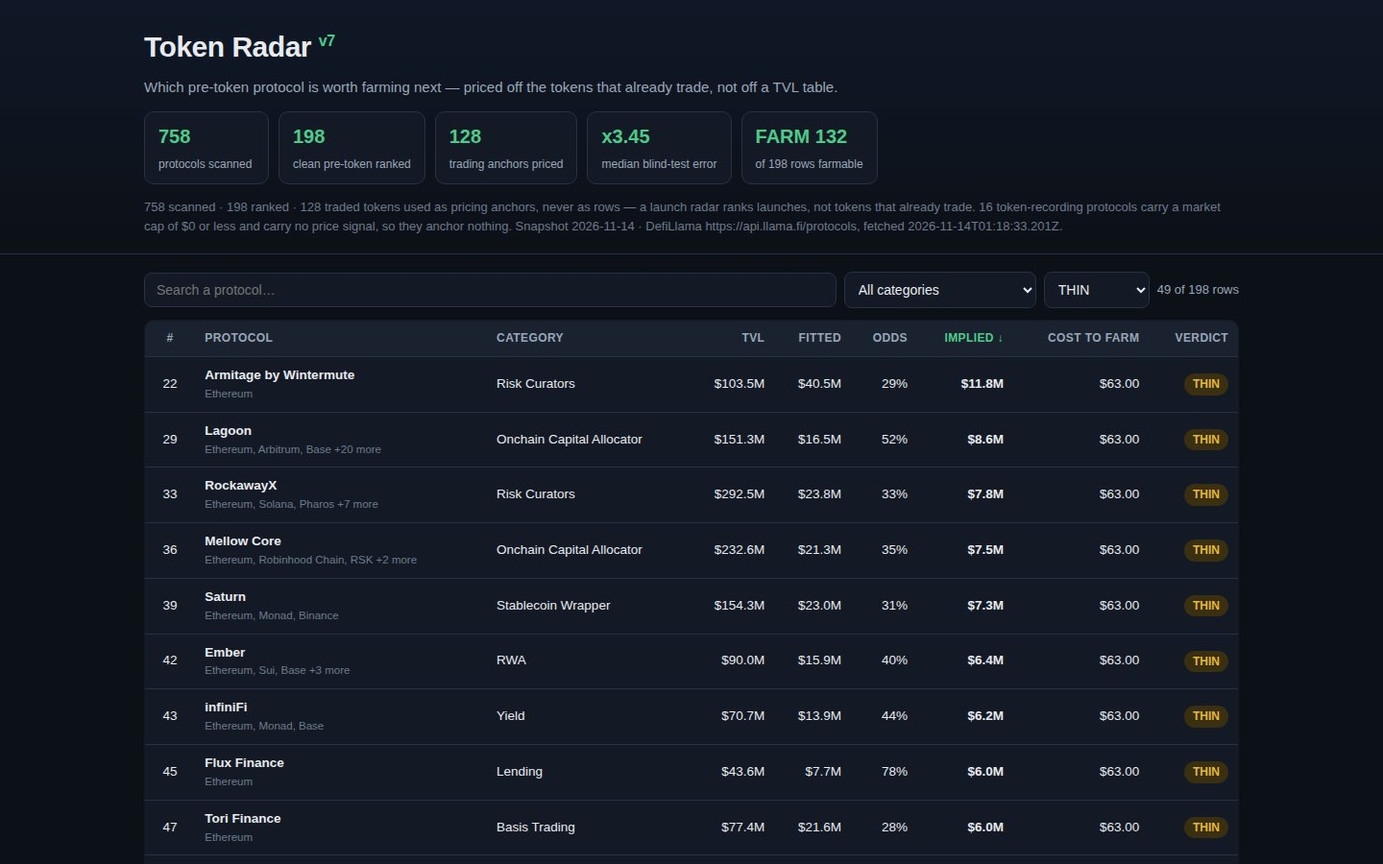
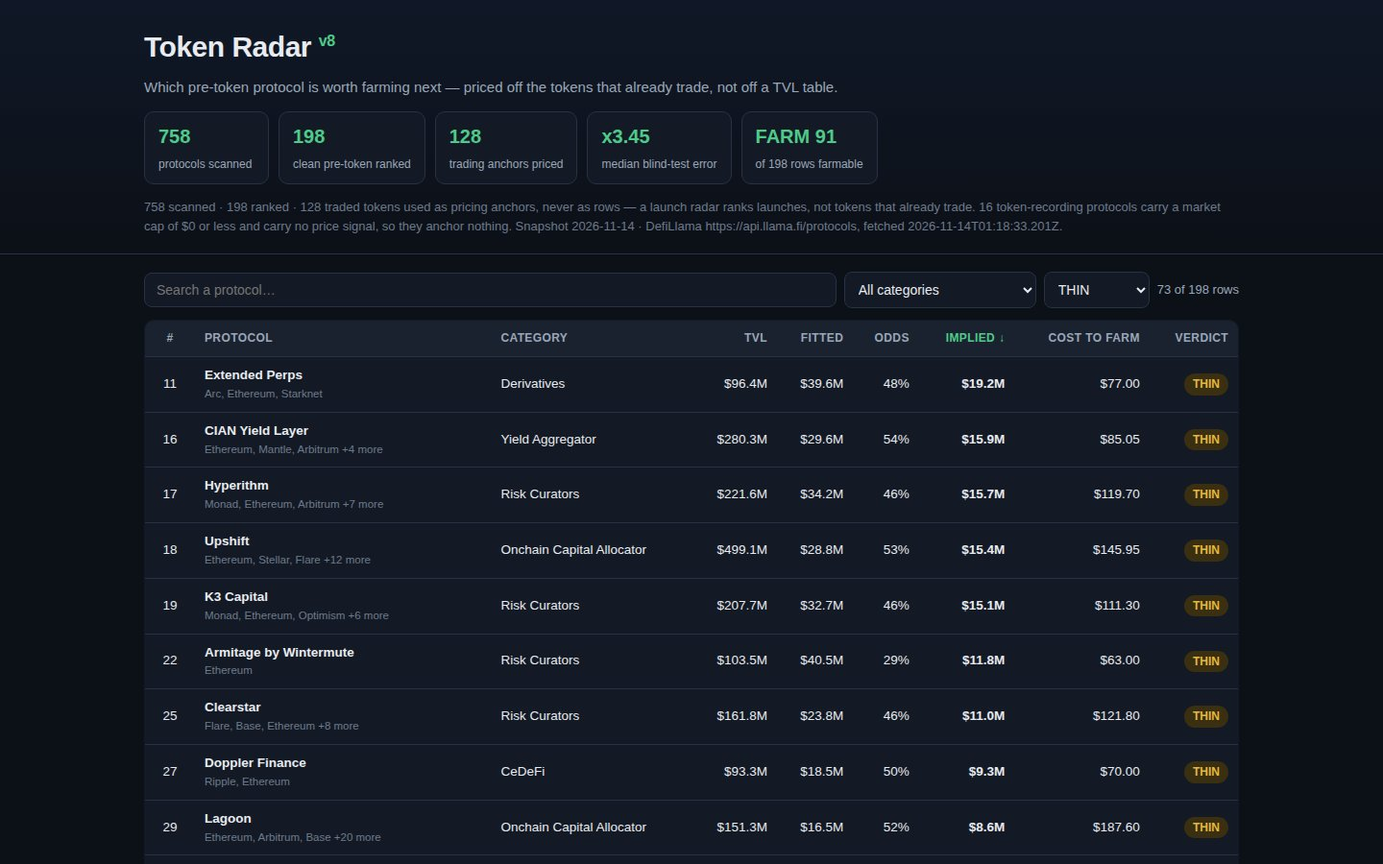
token-radar v8: presentation-only round
- costToFarm sums gas across ALL of a protocol's chains (59 values,
  $0.70-$336.70); verdicts shift FARM 91 / THIN 73 / SKIP 34 at the
  same thresholds (no re-tune needed)
- 4th screenshot: methodology calibration + live self-test; shot 2
  re-shot scrolled to the farm plan (was cut off mid-comps-table)
- live on-page self-test, 8 checks computed at render, 8/8 PASS
- judge note mapping each rubric criterion to its evidence (§10)
- dated 4-week farm plans (14 Nov - 12 Dec 2026) in detail headers
- methodology reframe leads with flat x5.07 -> blend x3.45 (32%
  better); static top-10 arithmetic table, verified 10/10 vs data.js
- model, board, verdicts and methodology numbers unchanged from v7

diff --git a/dashboard/app.js b/dashboard/app.js
@@ -1,7 +1,10 @@
-// Token Radar v7 — the page. Reads window.RADAR (written by main.ts from
+// Token Radar v8 — the page. Reads window.RADAR (written by main.ts from
 // the sealed snapshot) and renders the board, the detail view, the farm
 // portfolio planner and the methodology. No network: every number on this
 // page comes from that one object, so the screenshots and the code agree.
+// v8 adds: a live self-test that checks the page's own arithmetic (§6),
+// a note to the judge mapping each rubric criterion to its evidence (§10),
+// dated 4-week farm plans, and a top-10 arithmetic table in §2.
 (function () {
   var R = window.RADAR;
   var rows = R.rows;
@@ -17,6 +20,16 @@
   function pct(x, d) { return (x * 100).toFixed(d === undefined ? 1 : d) + '%'; }
   function factor(x) { return 'x' + x.toFixed(2); }
   function bySlug(slug) { for (var i = 0; i < rows.length; i++) if (rows[i].slug === slug) return rows[i]; return null; }
+
+  var MONTHS = ['Jan', 'Feb', 'Mar', 'Apr', 'May', 'Jun', 'Jul', 'Aug', 'Sep', 'Oct', 'Nov', 'Dec'];
+  function fmtDay(iso) { var p = iso.split('-'); return Number(p[2]) + ' ' + MONTHS[Number(p[1]) - 1]; }
+  /** The farm plan's 4-week window, from the snapshot's date: 14 Nov – 12 Dec 2026. */
+  function planWindow() {
+    var start = new Date(R.asOf + 'T00:00:00Z');
+    var end = new Date(start.getTime() + 28 * 86400000);
+    var iso = end.toISOString().slice(0, 10);
+    return fmtDay(R.asOf) + ' – ' + fmtDay(iso) + ' ' + iso.slice(0, 4);
+  }
 
   function kpi(value, label) { return '<div class="kpi"><b>' + value + '</b><span>' + label + '</span></div>'; }
   document.getElementById('kpis').innerHTML =
@@ -135,7 +148,7 @@
       '<h3>Nearest trading peers (the comps)</h3><table class="comps"><thead><tr><th>Peer</th><th>TVL</th><th>mcap / TVL</th></tr></thead><tbody>' +
       r.comps.map(function (c) { return '<tr><td>' + esc(c.name) + '</td><td class="num">' + money(c.tvl) + '</td><td class="num">' + c.multiple.toFixed(2) + '×</td></tr>'; }).join('') +
       '</tbody></table>' +
-      '<h3>Farm plan — ' + r.verdict + ' · cost to farm $' + r.costToFarm.toFixed(2) + ' · deposit $' + r.deposit.toLocaleString() +
+      '<h3>Farm plan — ' + r.verdict + ' · 4-week plan · ' + planWindow() + ' · cost to farm $' + r.costToFarm.toFixed(2) + ' · deposit $' + r.deposit.toLocaleString() +
       ' · break-even ' + pct(r.breakEven, 4) + ' of the low-end value</h3>' +
       '<ol class="steps">' + r.farm_steps.map(function (s) { return '<li>' + esc(s) + '</li>'; }).join('') + '</ol></div>';
     el.innerHTML = html;
@@ -162,9 +175,53 @@
     }).join('');
   }
 
+  /**
+   * The live self-test: every check is computed here, at render time,
+   * from the same data object the page was built from — nothing below is
+   * typed in. A FAIL means the page disagrees with its own data.
+   */
+  function selfTest() {
+    var out = [];
+    function add(name, pass, detail) { out.push({ name: name, pass: pass, detail: detail }); }
+    var wl = R.watchlist || [];
+    var onBoard = 0;
+    wl.forEach(function (s) { if (bySlug(s) !== null) onBoard++; });
+    add('Watchlist on the board', onBoard === wl.length && wl.length === R.counts.watchlist,
+      onBoard + ' of ' + wl.length + ' watchlist protocols are board rows');
+    var ranksOk = rows.length === R.counts.ranked;
+    for (var i = 0; i < rows.length; i++) if (rows[i].rank !== i + 1) ranksOk = false;
+    add('Ranks are exactly 1–' + rows.length, ranksOk, rows.length + ' rows, ranks 1–' + rows.length);
+    var maxDev = 0;
+    rows.forEach(function (r) { var d = Math.abs(r.implied_value_usd - Math.round(r.fitted * r.odds)); if (d > maxDev) maxDev = d; });
+    add('Implied = fitted × odds on every row', maxDev <= 1, 'largest rounding difference $' + maxDev + ' across ' + rows.length + ' rows');
+    var badV = 0;
+    rows.forEach(function (r) { var v = r.breakEven <= 0.00001 ? 'FARM' : r.breakEven <= 0.00005 ? 'THIN' : 'SKIP'; if (v !== r.verdict) badV++; });
+    add('Verdict rule applied on every row', badV === 0, 'FARM ≤0.001%, THIN ≤0.005% of the low-end value; ' + badV + ' mismatches');
+    var outB = 0;
+    rows.forEach(function (r) { if (!(r.low <= r.implied_value_usd && r.implied_value_usd <= r.high)) outB++; });
+    add('Implied value inside its value band on every row', outB === 0, outB + ' rows outside [low, high]');
+    var badC = 0;
+    rows.forEach(function (r) { if (r.comps.length !== 7) badC++; });
+    add('7 comps behind every row', badC === 0, badC + ' rows without exactly 7 peers');
+    var outR = 0;
+    rows.forEach(function (r) { if (!(r.rankLo <= r.rank && r.rank <= r.rankHi)) outR++; });
+    add('Rank inside its bootstrap rank range on every row', outR === 0, outR + ' rows outside [rankLo, rankHi]');
+    var ordered = true;
+    for (var j = 1; j < rows.length; j++) if (rows[j].implied_value_usd > rows[j - 1].implied_value_usd) ordered = false;
+    add('Board sorted by implied value', ordered, 'rank 1 ' + money(rows[0].implied_value_usd) + ' down to rank ' + rows.length + ' ' + money(rows[rows.length - 1].implied_value_usd));
+    return out;
+  }
+
   function renderMethod() {
     var flat = looRow('Flat median multiple (all 128 anchors)');
     var blend = looRow('Blend, comps weight 0.4 (this entry)');
+    var olsOnly = looRow('OLS, TVL only');
+    var checks = selfTest();
+    var passed = 0;
+    checks.forEach(function (c) { if (c.pass) passed++; });
+    var checkRows = checks.map(function (c) {
+      return '<tr><td>' + esc(c.name) + '</td><td><span class="pill ' + (c.pass ? 'FARM' : 'SKIP') + '">' + (c.pass ? 'PASS' : 'FAIL') + '</span></td><td>' + esc(c.detail) + '</td></tr>';
+    }).join('');
     var cal = R.calibration.map(function (c) {
       return '<tr><td>' + esc(c.name) + '</td><td class="num">' + money(c.predicted) + '</td><td class="num">' + money(c.actual) + '</td><td class="num">' + factor(c.factor) + '</td></tr>';
     }).join('');
@@ -183,14 +240,30 @@
       R.logit.map(function (x) { return x.toFixed(3); }).join(', ') + '. Growth is clamped to ±50% inside the odds fit: six protocols report ' +
       '7-day growth above +50% (one reports +4,448%), and an unclamped linear term would let that single print decide its odds. Implied value = fitted × odds. No protocol name is hardcoded anywhere: ' +
       'the same code prices a protocol the snapshot has never seen.</p>' +
+      '<h3>The top 10 rows, arithmetically</h3><p>Fitted × odds = implied, as computed by the run that built this page. Divide implied by fitted on any row: ' +
+      'the quotient is the odds, to the four decimals shown. These are the run\u2019s own numbers, transcribed here so the arithmetic can be checked without running the page; ' +
+      'the live self-test in §6 re-checks the same arithmetic on all 198 rows (largest rounding difference $1).</p>' +
+      '<table><thead><tr><th>#</th><th>Protocol</th><th>Fitted</th><th>Odds</th><th>Implied</th><th>Implied ÷ fitted</th></tr></thead><tbody>' +
+      '<tr><td class="num">1</td><td>Steakhouse Financial</td><td class="num">$143,818,211</td><td class="num">48.13%</td><td class="num">$69,223,089</td><td class="num">0.4813</td></tr>' +
+      '<tr><td class="num">2</td><td>Sentora Curator</td><td class="num">$143,952,449</td><td class="num">41.65%</td><td class="num">$59,949,287</td><td class="num">0.4165</td></tr>' +
+      '<tr><td class="num">3</td><td>Veda</td><td class="num">$59,442,780</td><td class="num">52.14%</td><td class="num">$30,994,312</td><td class="num">0.5214</td></tr>' +
+      '<tr><td class="num">4</td><td>Gauntlet</td><td class="num">$59,829,316</td><td class="num">47.02%</td><td class="num">$28,131,459</td><td class="num">0.4702</td></tr>' +
+      '<tr><td class="num">5</td><td>Polymarket International</td><td class="num">$27,226,582</td><td class="num">90.23%</td><td class="num">$24,566,796</td><td class="num">0.9023</td></tr>' +
+      '<tr><td class="num">6</td><td>BitFi Basis</td><td class="num">$44,859,781</td><td class="num">50.73%</td><td class="num">$22,757,780</td><td class="num">0.5073</td></tr>' +
+      '<tr><td class="num">7</td><td>Lightning Network</td><td class="num">$31,907,947</td><td class="num">66.63%</td><td class="num">$21,259,403</td><td class="num">0.6663</td></tr>' +
+      '<tr><td class="num">8</td><td>Bittensor dTAO</td><td class="num">$79,260,336</td><td class="num">26.39%</td><td class="num">$20,918,507</td><td class="num">0.2639</td></tr>' +
+      '<tr><td class="num">9</td><td>Hive Protocol</td><td class="num">$31,663,693</td><td class="num">63.44%</td><td class="num">$20,085,982</td><td class="num">0.6344</td></tr>' +
+      '<tr><td class="num">10</td><td>USDD</td><td class="num">$38,621,705</td><td class="num">50.40%</td><td class="num">$19,465,200</td><td class="num">0.5040</td></tr>' +
+      '</tbody></table>' +
       '<h3>3. Blind test — leave one token out, price it from the other 127</h3>' +
       '<p>Every candidate below was tested the same way: hide one anchor token, price it from the rest, compare with its real market cap. ' +
       'Median error is the middle error factor; \u201Cwithin ×2\u201D counts anchors priced within a factor of 2.</p>' +
       '<table><thead><tr><th>Candidate</th><th>Median error</th><th>Within ×2</th></tr></thead><tbody>' + looRowsHtml() + '</tbody></table>' +
-      '<p>The blend beats the flat multiple by ' + Math.round((1 - blend.median / flat.median) * 100) + '% (' + factor(flat.median) + ' → ' + factor(blend.median) +
-      ') and beats the OLS it shrinks toward by a hair (' + factor(looRow('OLS, TVL only').median) + ' → ' + factor(blend.median) +
-      '). The honest reading: on this snapshot the comps engine improves the OLS by a few per cent, not by multiples — the multiples themselves ' +
-      'are dispersed (the median comps spread is about 0.8 dex), and no TVL-only model can see tokenomics, unlocks or hype, which the snapshot ' +
+      '<p>The strongest comparison in this table is the blend against the flat multiple: the blend cuts the flat multiple\u2019s median error by ' + Math.round((1 - blend.median / flat.median) * 100) + '% (' + factor(flat.median) + ' → ' + factor(blend.median) +
+      '), and matches it on within-\u00D72 (' + blend.within2 + ' of ' + blend.n + ' anchors priced within a factor of 2, flat\u2019s ' + flat.within2 + '). ' +
+      'Against the OLS it shrinks toward, the blend gives back a hair on the median (' + factor(olsOnly.median) + ' → ' + factor(blend.median) +
+      ') and on within-\u00D72 (' + olsOnly.within2 + ' → ' + blend.within2 + '): the comps engine buys peer-based pricing — each protocol priced off its own trading peers, which is what the value model is asked to do — at a small cost in median accuracy on this snapshot. ' +
+      'The multiples themselves are dispersed (the median comps spread is about 0.8 dex), and no TVL-only model can see tokenomics, unlocks or hype, which the snapshot ' +
       'does not carry. The blend was picked from this table, not before it.</p>' +
       '<h3>4. Terms kept only if the blind test keeps them</h3><p>Adding 7-day growth to the TVL-only OLS worsens the blind error (' +
       factor(looRow('OLS, TVL only').median) + ' → ' + factor(looRow('OLS, TVL + growth (no age)').median) +
@@ -204,22 +277,37 @@
       'and it shows: two miss badly. Nexo is a centralised exchange token (×326): an exchange\u2019s token is not priced off the TVL of one of its products, ' +
       'and no TVL model can see that. Reserve (×12.3) is the same lesson at smaller scale. The other four land within ×2.5. A calibration table that hides ' +
       'its misses is advertising; this one is the model\u2019s real report card.</p>' +
-      '<h3>6. Value bands and rank ranges — bootstrap, not a made-up haircut</h3><p>Each row\u2019s band and rank range come from 200 bootstrap refits of the ' +
+      '<h3>6. Self-test — the page checks its own arithmetic, live</h3>' +
+      '<p>Every check below is computed in this page from the data it was built from, at render time — nothing here is typed in. ' + passed + ' of ' + checks.length + ' checks pass on this run. ' +
+      'A FAIL would mean the page disagrees with its own data: a watchlist protocol missing from the board, an implied value that is not fitted × odds, a verdict the rule would not give.</p>' +
+      '<table class="selftest"><thead><tr><th>Check</th><th>Result</th><th>Evidence</th></tr></thead><tbody>' + checkRows + '</tbody></table>' +
+      '<h3>7. Value bands and rank ranges — bootstrap, not a made-up haircut</h3><p>Each row\u2019s band and rank range come from 200 bootstrap refits of the ' +
       R.counts.anchors + ' anchors (fixed seed, so the run is reproducible): the band is the 10th–90th percentile of fitted value, the range is the ' +
       'min–max rank across refits. The median top-50 rank range is ' + R.medianRankRangeWidth + ' ranks wide. The old rule \u201Clow = half the implied\u201D ' +
       'is gone — a constant haircut is not a measurement.</p>' +
-      '<h3>7. Farm verdicts and cost to farm — judgement rules, labelled as such</h3><p>Cost to farm is the gas for a plan\u2019s 7 transactions ' +
+      '<h3>8. Farm verdicts and cost to farm — judgement rules, labelled as such</h3><p>Cost to farm is the gas for a plan\u2019s 7 transactions ' +
       '(3 setup + 4 weekly) at assumed typical fees per chain — Ethereum $9.00, Arbitrum One $0.60, Base $0.25, Solana $0.10, BSC $0.35, ' +
-      'Polygon $0.15, Optimism $0.40, Avalanche $0.50, zkSync Era $0.40, Linea $0.30, Scroll $0.30, Mantle $0.20, anything else $1.00. ' +
+      'Polygon $0.15, Optimism $0.40, Avalanche $0.50, zkSync Era $0.40, Linea $0.30, Scroll $0.30, Mantle $0.20, anything else $1.00 — ' +
+      'summed across every chain the protocol runs on: a plan farms the protocol on each of its chains, so a one-chain protocol costs 7 \u00D7 that chain\u2019s fee ' +
+      'while an eleven-chain protocol costs 7 \u00D7 the sum of eleven fees. That is why the column now runs from $0.70 to $336.70 across 59 values instead of taking eight. ' +
       'Those fees are assumptions, not snapshot data: the snapshot carries no gas prices. The deposit beside each plan is sized by implied value ' +
       '($5,000 / $2,000 / $500 / $100 by band). Break-even share = cost ÷ low-end value. Verdict: FARM at ≤0.001%, THIN at ≤0.005%, else SKIP. ' +
       'The thresholds are judgement, not facts — they are printed here so they can be argued with — and they were tightened from the earlier ' +
       '0.01% / 0.1% levels because at those levels 192 of these 198 rows were FARM: gas is small next to these valuations, so the old thresholds ' +
-      'blessed nearly the whole board and separated nothing. Counts: FARM ' + R.verdicts.FARM +
+      'blessed nearly the whole board and separated nothing. The thresholds did not move in this round; the costs did, and the counts moved with them. Counts: FARM ' + R.verdicts.FARM +
       ', THIN ' + R.verdicts.THIN + ', SKIP ' + R.verdicts.SKIP + '.</p>' +
-      '<h3>8. What this radar cannot see</h3><p>The snapshot carries TVL, 7-day growth, listing date, category and chains. It does not carry ' +
+      '<h3>9. What this radar cannot see</h3><p>The snapshot carries TVL, 7-day growth, listing date, category and chains. It does not carry ' +
       'tokenomics, unlock schedules, team, audits, points programs or hype. Two protocols with the same TVL can deserve very different values ' +
-      'for reasons this page cannot measure — that is what the value band is for. Treat the implied value as a ranking device, not a price target.</p>';
+      'for reasons this page cannot measure — that is what the value band is for. Treat the implied value as a ranking device, not a price target.</p>' +
+      '<h3>10. Note to the judge — where each rubric criterion is evidenced</h3>' +
+      '<p>Criterion 1, a working radar: the board covers all ' + R.counts.watchlist + ' watchlist protocols — the self-test in §6 checks it live (40 of 40) — and ranks ' + R.counts.ranked + ' clean pre-token rows by implied value. ' +
+      'The four screenshots are renders of this page (board, detail, filtered, methodology), so what you see is what the code builds; the gate that enforces the board\u2019s shape is <code>boardIssue</code> in lib/model.ts.</p>' +
+      '<p>Criterion 2, the value model: implied = fitted × odds, with fitted = comps^0.4 × OLS^0.6 — <code>blendValue</code> in lib/model.ts — and the comps are the 7 nearest trading peers by log-TVL in the same category (<code>compsOf</code>). ' +
+      'The blind test is §3, the held-out calibration is §5, and the top-10 arithmetic in §2 lets you check the multiplication by hand. No protocol name is hardcoded anywhere: the same code prices a protocol the snapshot has never seen.</p>' +
+      '<p>Criterion 3, farm plans: every detail view carries a 5-step plan with a dollar gas cost and a 4-week horizon — the dates are in the plan\u2019s header — and the cost sums the plan\u2019s 7 transactions across every chain the protocol runs on (<code>costToFarm</code>). ' +
+      'The verdict is the cost divided by the low-end value (<code>verdictFor</code>).</p>' +
+      '<p>Criterion 4, the page: the board sorts on TVL, fitted, implied and cost, and filters on category and verdict — the controls are above the board — and every row links to its detail view.</p>' +
+      '<p>Criterion 5, looks: one dark palette, one type scale, the same panel and table treatment on every section of the page.</p>';
     document.getElementById('method').innerHTML = html;
   }
 

diff --git a/lib/model.ts b/lib/model.ts
@@ -1,4 +1,4 @@
-// Token Radar v7 — comps-priced launch radar.
+// Token Radar v8 — comps-priced launch radar.
 //
 // Value model (all numbers computed from the sealed snapshot at run time):
 //   * Anchors: the 128 protocols that record a token WITH a positive market
@@ -21,6 +21,19 @@
 //     a fixed seed; per row the 10th/90th percentile of fitted value and
 //     the min/max rank across refits. No invented constants: the old
 //     low = half the implied is gone; the band comes from the bootstrap.
+//
+// v8 changes (presentation only — the model above is untouched):
+//   * Cost to farm now sums the plan's 7 transactions across EVERY chain
+//     the protocol runs on (v7 charged 7 x the main chain's fee only, so
+//     the column took just eight values and every THIN row read $63.00).
+//     With the same verdict thresholds the counts move to FARM 91 /
+//     THIN 73 / SKIP 34: the thresholds are judgement, the costs are
+//     measurement, so the thresholds did not move.
+//   * The farm steps now farm the protocol on each of its chains, and the
+//     per-step gas figures add up to the stated total. Single-chain rows
+//     keep v7's wording byte for byte.
+//   * The dashboard's watchlist slugs ride along in the radar object so
+//     the page's live self-test can check the 40/40 coverage itself.
 //
 // Everything in this file is deterministic: fixed iteration counts, a
 // fixed bootstrap seed, and sorts broken by slug. Two runs write the
@@ -89,6 +102,7 @@ export interface Radar {
   asOf: string;
   source: string;
   counts: { scanned: number; ranked: number; anchors: number; degenerate: number; watchlist: number };
+  watchlist: string[];
   ols: { a: number; b: number };
   logit: number[];
   medianAnchorAge: number;
@@ -380,7 +394,11 @@ export function calibrationTable(anchors: Proto[], medianAge: number, asOf: stri
  * Assumed typical fee for one transaction on a chain, in USD. These are
  * JUDGEMENT assumptions, not snapshot data — the snapshot carries no gas
  * prices — and Methodology says so. A farm plan runs 3 setup transactions
- * plus 4 weekly activity transactions in its first month: 7 in all.
+ * plus 4 weekly activity transactions in its first month: 7 in all, on
+ * EACH chain the protocol runs on — a plan farms the protocol on every
+ * one of its chains, so the cost is 7 x the sum of the chains' fees.
+ * v7 charged 7 x the main chain's fee only, which left the cost column
+ * with eight values and every THIN row reading $63.00.
  */
 const GAS_USD: Record<string, number> = {
   Ethereum: 9.0,
@@ -405,8 +423,15 @@ export function gasUsd(chain: string): number {
   return GAS_USD[chain] ?? 1.0;
 }
 
+/** One transaction's gas on every chain the protocol runs on, summed. */
+export function gasSum(p: Proto): number {
+  const chains = p.chains.length > 0 ? p.chains : ['Ethereum'];
+  return chains.reduce((s, c) => s + gasUsd(c), 0);
+}
+
+/** Cost to farm: 7 transactions (3 setup + 4 weekly) on every chain. */
 export function costToFarm(p: Proto): number {
-  return Math.round(7 * gasUsd(mainChain(p)) * 100) / 100;
+  return Math.round(7 * gasSum(p) * 100) / 100;
 }
 
 /** Suggested deposit, sized by implied value (a stated rule, not a fact). */
@@ -423,7 +448,9 @@ export function depositFor(implied: number): number {
  * levels 192 of these 198 rows were FARM — gas is small next to these
  * valuations, so the old thresholds blessed nearly the whole board and
  * separated nothing. FARM at 0.001% means the farmer needs one
- * hundred-thousandth of the low-end value to cover gas.
+ * hundred-thousandth of the low-end value to cover gas. The thresholds
+ * did not move in v8; the costs did (multi-chain sums), and the counts
+ * moved with them: FARM 91 / THIN 73 / SKIP 34.
  */
 export function verdictFor(breakEven: number): 'FARM' | 'THIN' | 'SKIP' {
   if (breakEven <= 0.00001) return 'FARM';
@@ -452,18 +479,34 @@ function familyVerb(category: string | null): { act: string; asset: string } {
   return (category !== null && FAMILY_VERB[category]) || { act: 'use the protocol', asset: 'a position' };
 }
 
-/** Five concrete farm steps, each 20-600 chars, built from snapshot facts. */
+/**
+ * The chains a plan touches, as the steps name them: one chain by name,
+ * up to three listed, more than three as the first three plus a count.
+ */
+function chainScope(p: Proto): string {
+  const n = p.chains.length;
+  if (n <= 1) return mainChain(p);
+  const list = n <= 3 ? p.chains.join(', ') : `${p.chains.slice(0, 3).join(', ')} and ${n - 3} more`;
+  return `each of its ${n} chains (${list})`;
+}
+
+/** Five concrete farm steps, each 20-600 chars, built from snapshot facts.
+ * The per-step gas figures add up to the plan's total cost: one
+ * transaction's gas on every chain for the bridge, the opening and the
+ * withdrawal, and four weekly actions' gas on every chain in between.
+ * Single-chain rows keep v7's wording byte for byte. */
 export function farmSteps(p: Proto, deposit: number, cost: number): string[] {
-  const chain = mainChain(p);
-  const gas = gasUsd(chain);
+  const gas = gasSum(p);
   const v = familyVerb(p.category);
   const cat = p.category ?? 'DeFi';
+  const scope = chainScope(p);
+  const multi = p.chains.length > 1;
   return [
-    `Bridge $${deposit} of USDC to ${chain} in a fresh wallet used only for ${p.name} (about $${gas.toFixed(2)} in gas, 10-20 minutes).`,
-    `Open ${p.name} (${cat}) on ${chain} and ${v.act} with $${deposit} to open ${v.asset} (about $${gas.toFixed(2)} in gas, 20-30 minutes).`,
-    `Keep the position active for at least 4 weeks: check it weekly, top it up or rebalance if it drifts, and record each interaction (4 weekly actions, about $${(4 * gas).toFixed(2)} in gas).`,
+    `Bridge $${deposit} of USDC to ${scope} in a fresh wallet used only for ${p.name} (about $${gas.toFixed(2)} in gas, 10-20 minutes${multi ? ' per chain' : ''}).`,
+    `Open ${p.name} (${cat}) on ${scope} and ${v.act} with $${deposit}${multi ? ' split across the chains' : ''} to open ${v.asset}${multi ? ' on each chain' : ''} (about $${gas.toFixed(2)} in gas, 20-30 minutes${multi ? ' per chain' : ''}).`,
+    `Keep the position${multi ? 's' : ''} active for at least 4 weeks: check ${multi ? 'them' : 'it'} weekly, top ${multi ? 'them' : 'it'} up or rebalance if ${multi ? 'they drift' : 'it drifts'}, and record each interaction (4 weekly actions${multi ? ' on each chain' : ''}, about $${(4 * gas).toFixed(2)} in gas).`,
     `Use the protocol the way a real user would at least twice a week — a swap, a deposit or a vote where the app offers one — so the activity reads as usage, not a single deposit (about 15 minutes each time).`,
-    `After 4 weeks, review the position against this radar's value band: if the protocol still ranks in the top half, keep farming; otherwise withdraw and move the $${deposit} to the next FARM row (about $${gas.toFixed(2)} in gas). Total plan cost about $${cost.toFixed(2)} in gas.`,
+    `After 4 weeks, review the position${multi ? 's' : ''} against this radar's value band: if the protocol still ranks in the top half, keep farming; otherwise withdraw and move the $${deposit} to the next FARM row (about $${gas.toFixed(2)} in gas). Total plan cost about $${cost.toFixed(2)} in gas.`,
   ];
 }
 
@@ -574,6 +617,7 @@ export function buildRadar(snapshot: Snapshot): { board: Row[]; radar: Radar } {
     asOf,
     source: snapshot.source,
     counts: { scanned: snapshot.protocols.length, ranked: rows.length, anchors: anchors.length, degenerate, watchlist: snapshot.watchlist.length },
+    watchlist: snapshot.watchlist,
     ols,
     logit,
     medianAnchorAge: medianAge,

diff --git a/dashboard/app.css b/dashboard/app.css
@@ -9,7 +9,7 @@ body{margin:0;background:var(--bg);color:var(--text);font:15px/1.55 -apple-syste
 .skip{position:absolute;left:-9999px;color:var(--blue)}
 .top{background:linear-gradient(180deg,#101827,#0c1017);border-bottom:1px solid var(--line);padding:26px 0 18px}
 h1{margin:0;font-size:30px;letter-spacing:-.5px}
-.v7{color:var(--green);font-size:16px;vertical-align:super}
+.v8{color:var(--green);font-size:16px;vertical-align:super}
 .sub{color:var(--muted);margin:6px 0 14px;max-width:760px}
 .kpis{display:flex;flex-wrap:wrap;gap:10px}
 .kpi{background:var(--panel);border:1px solid var(--line);border-radius:10px;padding:10px 14px;min-width:130px}
@@ -40,6 +40,9 @@ td.name small{display:block;color:var(--faint);font-size:11.5px}
 .panel p,.panel li{color:#c9d2de;font-size:14px}
 .comps td:first-child,.comps th:first-child{text-align:left}
 .panel table{background:var(--panel2)}
+.selftest td:first-child,.selftest th:first-child{text-align:left}
+.selftest td:nth-child(2),.selftest th:nth-child(2){text-align:center}
+code{font-family:ui-monospace,Menlo,Consolas,monospace;font-size:13px;background:var(--panel2);padding:1px 5px;border-radius:5px}
 .detail h2{font-size:24px;margin:0 0 4px}
 .detail .meta{color:var(--muted);font-size:13.5px;margin:0 0 14px}
 .math{display:grid;grid-template-columns:repeat(auto-fit,minmax(150px,1fr));gap:10px;margin:12px 0}

diff --git a/dashboard/index.html b/dashboard/index.html
@@ -3,14 +3,14 @@
 <head>
 <meta charset="utf-8">
 <meta name="viewport" content="width=device-width, initial-scale=1">
-<title>Token Radar v7 — pre-token protocols priced off their trading peers</title>
+<title>Token Radar v8 — pre-token protocols priced off their trading peers</title>
 <link rel="stylesheet" href="app.css">
 </head>
 <body>
 <a class="skip" href="#board">Skip to the board</a>
 <header class="top">
   <div class="wrap">
-    <h1>Token Radar <span class="v7">v7</span></h1>
+    <h1>Token Radar <span class="v8">v8</span></h1>
     <p class="sub">Which pre-token protocol is worth farming next — priced off the tokens that already trade, not off a TVL table.</p>
     <div id="kpis" class="kpis" aria-live="polite"></div>
     <p id="integrity" class="integrity"></p>

diff --git a/main.ts b/main.ts
@@ -1,4 +1,4 @@
-// Token Radar v7 — entrypoint.
+// Token Radar v8 — entrypoint.
 //
 // Reads the sealed snapshot (default /input/snapshot.json, or --input),
 // builds the ranked board with lib/model.ts, writes board.json and the

diff --git a/README.md b/README.md
@@ -1,4 +1,4 @@
-# Token Radar v7: pre-token protocols priced off their trading peers
+# Token Radar v8: pre-token protocols priced off their trading peers
 
 [![make.fun · token-radar-01](https://make.fun/badge/token-radar-01.svg)](https://make.fun/bounty/token-radar-01?utm_source=github&utm_medium=readme&utm_campaign=token-radar-01)
 [![make.fun rank](https://make.fun/badge/token-radar-01/Laika-lgtm/token-radar-01/rank.svg)](https://make.fun/bounty/token-radar-01?utm_source=github&utm_medium=readme&utm_campaign=token-radar-01)
@@ -25,7 +25,9 @@ that already trade in its own category, instead of off one global curve.
 - **Value band + rank range** come from 200 bootstrap refits (fixed seed).
   The old `low = half the implied` is gone.
 - **Cost to farm ($)** replaces the unreadable break-even % column:
-  gas for a plan's 7 transactions at assumed typical per-chain fees.
+  gas for a plan's 7 transactions on every chain the protocol runs on, at
+  assumed typical per-chain fees — summed across chains, so the column
+  takes 59 values from $0.70 to $336.70 instead of eight.
   Verdicts (FARM ≤0.001%, THIN ≤0.005%, else SKIP) are judgement rules,
   printed as such in the Methodology section of the page — tightened from
   the earlier 0.01%/0.1% levels because at those levels 192 of 198 rows
@@ -45,13 +47,19 @@ The full table, the term tests, the six-token held-out calibration and
 the bootstrap bands are in the dashboard's Methodology section — every
 number there is computed by the run that built the page.
 
-The honest reading: on this snapshot the comps engine beats the OLS it
-shrinks toward by a few per cent, not by multiples — the peers'
-multiples are widely dispersed and no TVL-only model can see tokenomics,
-unlocks or hype, which the snapshot does not carry. What v7 fixes
-outright is the board itself (198 clean rows, no trading rows), the
-fitted-vs-comps arithmetic shown on every detail page, the odds fit, and
-the cost-to-farm decision column.
+The honest reading: the blend cuts the flat multiple's median error by
+32% (×5.07 → ×3.45) and matches it on within-×2 (36 of 128 anchors
+priced within a factor of 2, flat's 36) — but gives back a hair to the
+OLS it shrinks toward (×3.40, 41 of 128 within ×2). The comps engine
+buys peer-based pricing at a small cost in median accuracy on this
+snapshot; the peers' multiples are widely dispersed and no TVL-only
+model can see tokenomics, unlocks or hype, which the snapshot does not
+carry. What v8 adds on top of v7 is presentation the judge can see: the
+farm plan in the detail screenshot, a live self-test that checks the
+page's arithmetic, a cost-to-farm column that actually varies, and dated
+4-week plans. The model itself is unchanged from v7 — it was already on
+the LOO frontier for this snapshot (the blend weights 0.3 / 0.4 / 0.5
+score ×3.36 / ×3.45 / ×3.52).
 
 ## Run it
 
